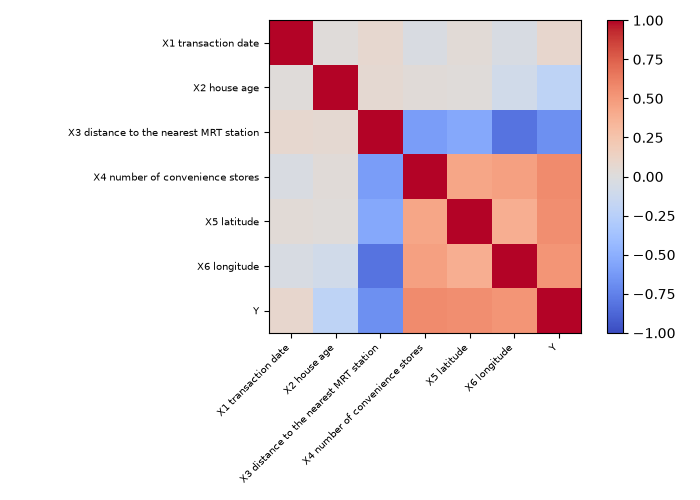
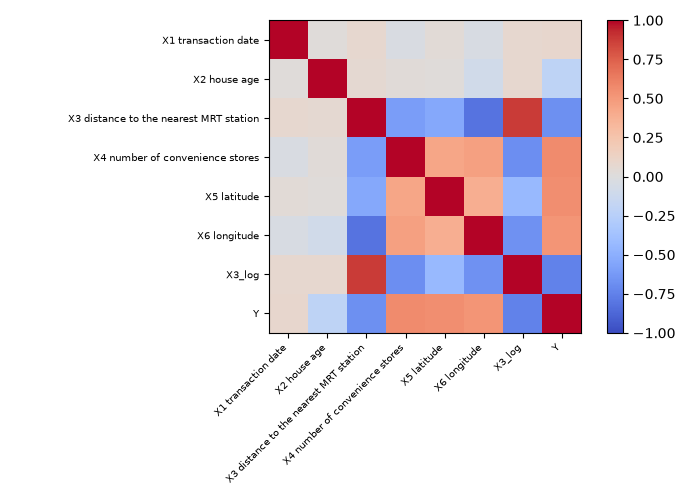
Enhance EDA visualizations and refactor main pipeline code for clarity and efficiency

diff --git a/main.py b/main.py
@@ -5,7 +5,9 @@
 import matplotlib
 matplotlib.use("Agg")
 import matplotlib.pyplot as plt
+import numpy as np
 import pandas as pd
+from sklearn.compose import TransformedTargetRegressor
 from sklearn.dummy import DummyRegressor
 from sklearn.ensemble import GradientBoostingRegressor, RandomForestRegressor
 from sklearn.linear_model import LinearRegression
@@ -22,6 +24,7 @@ CV_FOLDS = 5
 CV_SPLITTER = KFold(n_splits=CV_FOLDS, shuffle=True, random_state=RANDOM_STATE)
 CV_SELECT_METRIC = "cv_rmse"
 CV_SCORING = {"mae": "neg_mean_absolute_error", "rmse": "neg_root_mean_squared_error", "r2": "r2"}
+X3_COL = "X3 distance to the nearest MRT station"
 pd.set_option("display.width", 10000)
 pd.set_option("display.max_columns", None)
 
@@ -45,17 +48,24 @@ print("describe:\n", df.describe())
 feature_cols = [c for c in df.columns if c != "Y"]
 X_all, y_all = df[feature_cols], df["Y"]
 X_train, X_test, y_train, y_test = train_test_split(X_all, y_all, test_size=TEST_SIZE, random_state=RANDOM_STATE)
+X_train = X_train.copy()
+X_test = X_test.copy()
+X_train["X3_log"] = np.log1p(X_train[X3_COL])
+X_test["X3_log"] = np.log1p(X_test[X3_COL])
+feature_sets = {"base": feature_cols, "base_x3log": feature_cols + ["X3_log"]}
 print(f"train={X_train.shape[0]} test={X_test.shape[0]}")
 
 # %%
 train_df = X_train.copy()
 train_df["Y"] = y_train
-print(train_df.describe())
+print("\ndescribe:\n", train_df.describe())
 print("\ncorrelation:\n", train_df.corr())
 fig, axes = plt.subplots(2, 4, figsize=(14, 6))
 for ax, col in zip(axes.flat, train_df.columns):
     ax.hist(train_df[col], bins=20, edgecolor="black")
     ax.set_title(col, fontsize=8)
+for ax in axes.flat[len(train_df.columns):]:
+    ax.set_visible(False)
 plt.tight_layout()
 plt.savefig("eda_distributions.png", dpi=100)
 plt.close()
@@ -68,6 +78,13 @@ fig.colorbar(im, ax=ax)
 plt.tight_layout()
 plt.savefig("eda_correlation.png", dpi=100)
 plt.close()
+fig, axes = plt.subplots(2, 3, figsize=(10, 6))
+for ax, col in zip(axes.flat, feature_cols):
+    ax.scatter(train_df[col], train_df["Y"], s=8, alpha=0.6)
+    ax.set_title(col, fontsize=8)
+plt.tight_layout()
+plt.savefig("eda_scatter.png", dpi=100)
+plt.close()
 
 # %%
 models = {
@@ -78,18 +95,24 @@ models = {
     "svr": Pipeline([("scaler", StandardScaler()), ("model", SVR())]),
 }
 cv_rows = []
-for name, model in models.items():
-    s = cross_validate(model, X_train, y_train, cv=CV_SPLITTER, scoring=CV_SCORING, n_jobs=-1)
-    cv_rows.append({"model": name, "cv_mae": -s["test_mae"].mean(), "cv_rmse": -s["test_rmse"].mean(), "cv_r2": s["test_r2"].mean()})
+for feat_name, cols in feature_sets.items():
+    Xt = X_train[cols]
+    for target_name, use_log in (("Y", False), ("Y_log", True)):
+        for model_name, model in models.items():
+            est = TransformedTargetRegressor(regressor=model, func=np.log1p, inverse_func=np.expm1) if use_log else model
+            s = cross_validate(est, Xt, y_train, cv=CV_SPLITTER, scoring=CV_SCORING, n_jobs=-1)
+            cv_rows.append({"features": feat_name, "target": target_name, "model": model_name, "cv_mae": -s["test_mae"].mean(), "cv_rmse": -s["test_rmse"].mean(), "cv_r2": s["test_r2"].mean()})
 cv_results = pd.DataFrame(cv_rows).sort_values(CV_SELECT_METRIC, ascending=True)
 print(cv_results.round(3).to_string(index=False))
 
 # %%
-best_name = cv_results.iloc[0]["model"]
-best_model = models[best_name]
-best_model.fit(X_train, y_train)
-test_pred = best_model.predict(X_test)
+best = cv_results.iloc[0]
+best_cols = feature_sets[best["features"]]
+best_model = models[best["model"]]
+best_est = TransformedTargetRegressor(regressor=best_model, func=np.log1p, inverse_func=np.expm1) if best["target"] == "Y_log" else best_model
+best_est.fit(X_train[best_cols], y_train)
+test_pred = best_est.predict(X_test[best_cols])
 test_mae = mean_absolute_error(y_test, test_pred)
 test_rmse = mean_squared_error(y_test, test_pred) ** 0.5
 test_r2 = r2_score(y_test, test_pred)
-print(f"best={best_name} test_mae={test_mae:.3f} test_rmse={test_rmse:.3f} test_r2={test_r2:.3f}")
+print(f"best features={best['features']} target={best['target']} model={best['model']} test_mae={test_mae:.3f} test_rmse={test_rmse:.3f} test_r2={test_r2:.3f}")
